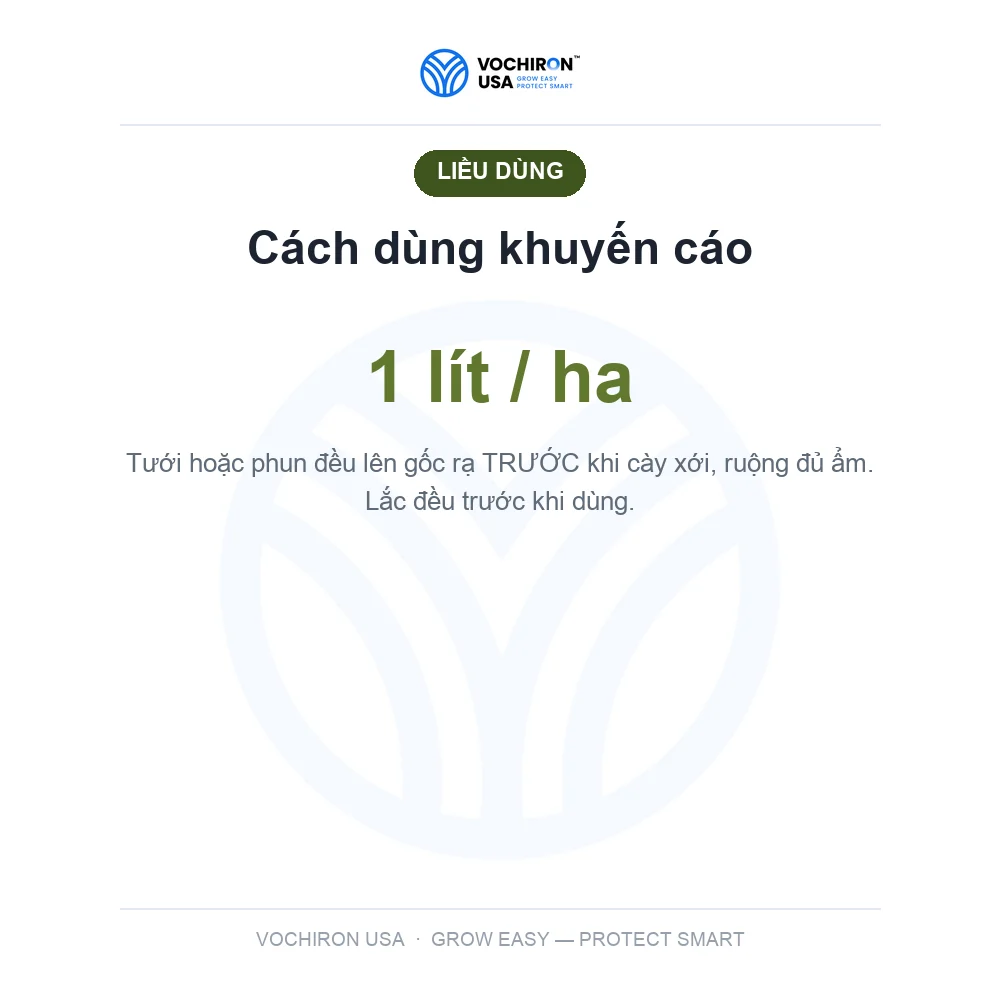
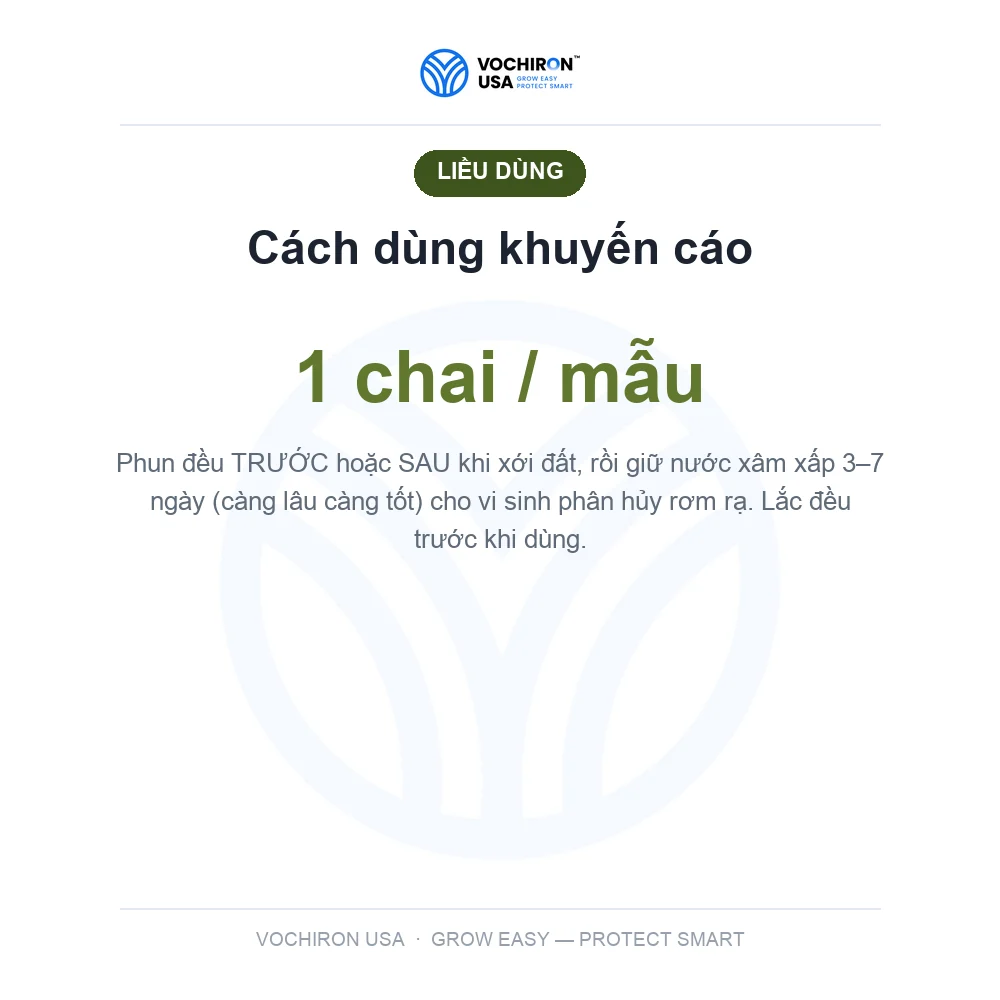
VCR-23: giá 560.000đ/chai (1 chai/mẫu) + cách dùng phun trước/sau xới, ngâm nước xâm xấp 3–7 ngày

Changed region(s): [[0.124, 0.434, 0.868, 0.558], [0.279, 0.341, 0.713, 0.403]]

diff --git a/index.html b/index.html
@@ -663,7 +663,7 @@ gtag('js',new Date());gtag('config','G-TL0S0RERYY');</script>
     <span class="nav-drop mega-drop">
       <button class="nav-top"><span data-i18n="nav_products">🌾 Sản phẩm</span> <span class="caret">▾</span></button>
       <span class="nav-menu mega-menu">
-        <div class="mm-col"><a class="mm-head" href="#lg">🌾 <span data-i18n="cat_lg">Lúa giống</span></a><a href="san-pham/lg-1-lua-giong-om18-tan-thinh.html">Lúa giống OM18 — Tấn Thịnh</a><a href="san-pham/lg-2-nep-ir4625.html">Nếp IR4625</a><a class="mm-all" href="#lg">Xem nhóm →</a></div><div class="mm-col"><a class="mm-head" href="#co">🌾 <span data-i18n="cat_co">Thuốc trừ cỏ</span></a><a href="san-pham/eha-1-eurofit-chau-au.html">EUROFIT CHÂU ÂU 1 lít</a><a href="san-pham/vcr-14-diet-mam-my-tieu-mam.html">Diệt Mầm MỸ 500ml Tiêu Mầm</a><a class="mm-all" href="#co">Xem nhóm →</a></div><div class="mm-col"><a class="mm-head" href="#sau">🐛 <span data-i18n="cat_sau">Thuốc trừ sâu, rầy &amp; ốc</span></a><a href="san-pham/vcr-3-ichibio.html">ICHIBIO Sâu đục thân, cuốn lá, nhện gié, bọ trĩ, rầy nâu</a><a href="san-pham/eha-10-f21-xong-hoi-ban-moi-f18.html">F21 xông hơi sâu đục thân, rầy rệp bản mới F18</a><a href="san-pham/eha-13-diet-sach.html">DIỆT SẠCH sâu rầy rệp, xông hơi lưu dẫn</a><a href="san-pham/vcr-4-sieu-3-6.html">Siêu 3.6 siêu diệt ốc</a><a href="san-pham/vcr-20-padan-ledan-usa.html">PADAN LEDAN USA (cartap, imidac, sâu đục thân, cuốn lá) 100gr</a><a href="san-pham/vcr-18-soi-xam-100g-soi-do-ban-moi.html">SÓI XÁM 100g Sói đỏ bản mới (sâu đục thân, rầy nâu)</a><a class="mm-all" href="#sau">Xem nhóm →</a></div><div class="mm-col"><a class="mm-head" href="#benh">🍃 <span data-i18n="cat_benh">Thuốc trừ bệnh — nấm &amp; vi khuẩn</span></a><a href="san-pham/eha-15-katana-kiem-nhat-480cc.html">Katana kiếm nhật bản 480cc đạo ôn</a><a href="san-pham/vcr-12-bim-usa.html">BIM USA 100gr đạo ôn</a><a href="san-pham/eha-3-help-chau-au-heppy-top-400.html">Help Châu Âu Heppy top 400</a><a href="san-pham/eha-6-topvil-50sc-nano.html">TOPVIL 50SC ấn độ, công nghệ nano</a><a href="san-pham/eha-2-sieu-khuan-usa-240cc.html">SIÊU KHUẨN USA 240cc</a><a href="san-pham/vcr-13-than-y-pirastar.html">Thần Y Pirastar (diệt sạch đạo ôn, vàng lá chín sớm, hơn 100 loại nấm bệnh)</a><a href="san-pham/vcr-19-nativax-90g.html">NATIVAX 90gr</a><a href="san-pham/eha-7-til-super-240ml.html">Til super 240ml</a><a class="mm-all" href="#benh">Xem tất cả 19 →</a></div><div class="mm-col"><a class="mm-head" href="#dd">🌱 <span data-i18n="cat_dd">Dinh dưỡng &amp; Kích thích sinh trưởng</span></a><a href="san-pham/vcr-22-humic-thay-dap-sihu-new-do-1kg.html">HUMIC THAY THẾ DAP SIHU NEW ĐỎ CỨNG CÂY 1 KG</a><a href="san-pham/eha-12-bio-nuoc-organic-500ml.html">BIO Nước ORGANIC 500ml</a><a href="san-pham/eha-5-antracol-nuoc-1l.html">Antracol nước 1 lít (siêu cứng cây, xanh lá)</a><a href="san-pham/vcr-21-hydrophos-1l.html">Hydrophos 1 Lít</a><a href="san-pham/vcr-2-cung-cay-chong-sap-500ml.html">CỨNG CÂY CHỐNG SẬP 500ml</a><a href="san-pham/vcr-16-ginseng-nyro-0-01sl.html">GINSENG NYRO 0.01SL 200ml (King Brassinolide)</a><a href="san-pham/eha-4-sieu-ra-re-no-bui-cung-cay-xanh-la-1l.html">Siêu ra rể nở bụi cứng cây xanh lá 1 lít</a><a href="san-pham/vcr-5-bloom-power.html">BLOOM POWER kích trổ, mập đòng</a><a class="mm-all" href="#dd">Xem tất cả 12 →</a></div><div class="mm-col"><a class="mm-head" href="#pb">🧪 <span data-i18n="cat_pb">Phân bón</span></a><a href="san-pham/pb-1-phan-ure.html">Phân Ure</a><a href="san-pham/pb-2-phan-dap.html">Phân DAP</a><a href="san-pham/pb-3-phan-kali.html">Phân Kali</a><a href="san-pham/pb-4-phan-npk.html">Phân NPK</a><a class="mm-all" href="#pb">Xem nhóm →</a></div>
+        <div class="mm-col"><a class="mm-head" href="#lg">🌾 <span data-i18n="cat_lg">Lúa giống</span></a><a href="san-pham/lg-1-lua-giong-om18-tan-thinh.html">Lúa giống OM18 — Tấn Thịnh</a><a href="san-pham/lg-2-nep-ir4625.html">Nếp IR4625</a><a class="mm-all" href="#lg">Xem nhóm →</a></div><div class="mm-col"><a class="mm-head" href="#co">🌾 <span data-i18n="cat_co">Thuốc trừ cỏ</span></a><a href="san-pham/eha-1-eurofit-chau-au.html">EUROFIT CHÂU ÂU 1 lít</a><a href="san-pham/vcr-14-diet-mam-my-tieu-mam.html">Diệt Mầm MỸ 500ml Tiêu Mầm</a><a class="mm-all" href="#co">Xem nhóm →</a></div><div class="mm-col"><a class="mm-head" href="#sau">🐛 <span data-i18n="cat_sau">Thuốc trừ sâu, rầy &amp; ốc</span></a><a href="san-pham/vcr-3-ichibio.html">ICHIBIO Sâu đục thân, cuốn lá, nhện gié, bọ trĩ, rầy nâu</a><a href="san-pham/eha-10-f21-xong-hoi-ban-moi-f18.html">F21 xông hơi sâu đục thân, rầy rệp bản mới F18</a><a href="san-pham/eha-13-diet-sach.html">DIỆT SẠCH sâu rầy rệp, xông hơi lưu dẫn</a><a href="san-pham/vcr-4-sieu-3-6.html">Siêu 3.6 siêu diệt ốc</a><a href="san-pham/vcr-20-padan-ledan-usa.html">PADAN LEDAN USA (cartap, imidac, sâu đục thân, cuốn lá) 100gr</a><a href="san-pham/vcr-18-soi-xam-100g-soi-do-ban-moi.html">SÓI XÁM 100g Sói đỏ bản mới (sâu đục thân, rầy nâu)</a><a class="mm-all" href="#sau">Xem nhóm →</a></div><div class="mm-col"><a class="mm-head" href="#benh">🍃 <span data-i18n="cat_benh">Thuốc trừ bệnh — nấm &amp; vi khuẩn</span></a><a href="san-pham/eha-15-katana-kiem-nhat-480cc.html">Katana kiếm nhật bản 480cc đạo ôn</a><a href="san-pham/vcr-12-bim-usa.html">BIM USA 100gr đạo ôn</a><a href="san-pham/eha-3-help-chau-au-heppy-top-400.html">Help Châu Âu Heppy top 400</a><a href="san-pham/eha-6-topvil-50sc-nano.html">TOPVIL 50SC ấn độ, công nghệ nano</a><a href="san-pham/eha-2-sieu-khuan-usa-240cc.html">SIÊU KHUẨN USA 240cc</a><a href="san-pham/vcr-13-than-y-pirastar.html">Thần Y Pirastar (diệt sạch đạo ôn, vàng lá chín sớm, hơn 100 loại nấm bệnh)</a><a href="san-pham/vcr-19-nativax-90g.html">NATIVAX 90gr</a><a href="san-pham/eha-7-til-super-240ml.html">Til super 240ml</a><a class="mm-all" href="#benh">Xem tất cả 19 →</a></div><div class="mm-col"><a class="mm-head" href="#dd">🌱 <span data-i18n="cat_dd">Dinh dưỡng &amp; Kích thích sinh trưởng</span></a><a href="san-pham/vcr-22-humic-thay-dap-sihu-new-do-1kg.html">HUMIC THAY THẾ DAP SIHU NEW ĐỎ CỨNG CÂY 1 KG</a><a href="san-pham/eha-12-bio-nuoc-organic-500ml.html">BIO Nước ORGANIC 500ml</a><a href="san-pham/vcr-23-10-ty-vi-sinh-phan-huy-rom-ra-cai-tao-dat.html">10 Tỷ Vi Sinh — phân hủy rơm rạ, cải tạo đất</a><a href="san-pham/eha-5-antracol-nuoc-1l.html">Antracol nước 1 lít (siêu cứng cây, xanh lá)</a><a href="san-pham/vcr-21-hydrophos-1l.html">Hydrophos 1 Lít</a><a href="san-pham/vcr-2-cung-cay-chong-sap-500ml.html">CỨNG CÂY CHỐNG SẬP 500ml</a><a href="san-pham/vcr-16-ginseng-nyro-0-01sl.html">GINSENG NYRO 0.01SL 200ml (King Brassinolide)</a><a href="san-pham/eha-4-sieu-ra-re-no-bui-cung-cay-xanh-la-1l.html">Siêu ra rể nở bụi cứng cây xanh lá 1 lít</a><a class="mm-all" href="#dd">Xem tất cả 12 →</a></div><div class="mm-col"><a class="mm-head" href="#pb">🧪 <span data-i18n="cat_pb">Phân bón</span></a><a href="san-pham/pb-1-phan-ure.html">Phân Ure</a><a href="san-pham/pb-2-phan-dap.html">Phân DAP</a><a href="san-pham/pb-3-phan-kali.html">Phân Kali</a><a href="san-pham/pb-4-phan-npk.html">Phân NPK</a><a class="mm-all" href="#pb">Xem nhóm →</a></div>
       </span>
     </span>
     <span class="nav-drop filter-drop">
@@ -1506,6 +1506,22 @@ gtag('js',new Date());gtag('config','G-TL0S0RERYY');</script>
           <button class="add-btn" data-code="EHA-12" data-name="BIO Nước ORGANIC 500ml" data-price="120000" data-step="1">＋ Thêm vào đơn</button>
         </div>
       </article>
+      <article class="card" id="card-VCR-23" data-target="phân hủy rơm rạ – gốc rạ – lúa cỏ sót; hữu cơ hóa, phá chai cứng đất; hạ phèn, kích ra rễ cực mạnh dinh dưỡng · vi sinh cải tạo đất 10 tỷ vi sinh — phân hủy rơm rạ, cải tạo đất">
+        
+        <div class="thumb"><img class="mainimg" loading="lazy" src="assets/mk-VCR-23.webp" alt="10 Tỷ Vi Sinh — phân hủy rơm rạ, cải tạo đất"></div>
+        
+        <div class="body">
+          <div class="meta"><span class="badge b-vcr">VOCHIRON</span><span class="tier t-ch">Tiêu chuẩn</span></div>
+          <h3>10 Tỷ Vi Sinh — phân hủy rơm rạ, cải tạo đất</h3>
+          <div class="pack">Chai 1 lít</div>
+          <div class="chips"><span class="chip-label" data-i18n="lbl_ai">Hoạt chất</span><span class="chip">Bacillus spp 1×10⁸</span><span class="chip">Trichoderma spp 1×10⁸ CFU/ml · Hữu cơ 20% · N 3% · P₂O₅ 2% · K₂O 2%</span></div>
+          <div class="field"><b data-i18n="lbl_uses">Công dụng:</b> Phân hủy rơm rạ – gốc rạ – lúa cỏ sót; hữu cơ hóa, phá chai cứng đất; hạ phèn, kích ra rễ cực mạnh</div>
+          <div class="desc">Hai chủng vi sinh Bacillus spp. + Trichoderma spp. (mỗi loại 1×10⁸ CFU/ml) tiết enzyme cellulase – ligninase phân giải nhanh rơm rạ, gốc rạ, rễ khô và hạt lúa sót nằm sâu trong đất thành mùn hữu cơ; đồng thời ức chế nấm bệnh tồn dư, hạn chế ngộ độc hữu cơ – vàng lá nghẹt rễ đầu vụ. Axit hữu cơ sinh ra phá vỡ kết cấu đất chai cứng, giải phóng phèn, tăng CEC cho đất tơi xốp, chuyển phân hóa học về dạng dễ tiêu và kích thích bộ rễ ăn sâu, cây khỏe ngay từ đầu vụ.</div>
+          <div class="price"><small data-i18n="lbl_price">Giá bán lẻ tham khảo</small><strong>560.000đ</strong></div>
+          <a class="detail-link" href="san-pham/vcr-23-10-ty-vi-sinh-phan-huy-rom-ra-cai-tao-dat.html" data-i18n="lbl_detail">Xem chi tiết sản phẩm →</a>
+          <button class="add-btn" data-code="VCR-23" data-name="10 Tỷ Vi Sinh — phân hủy rơm rạ, cải tạo đất" data-price="560000" data-step="1">＋ Thêm vào đơn</button>
+        </div>
+      </article>
       <article class="card" id="card-EHA-5" data-target="cứng cây, nở bụi, mập đòng, xanh lá dinh dưỡng · cứng cây antracol nước 1 lít (siêu cứng cây, xanh lá)">
         
         <div class="thumb"><img class="mainimg" loading="lazy" src="assets/mk-EHA-5.webp" alt="Antracol nước 1 lít (siêu cứng cây, xanh lá)"></div>
@@ -1648,22 +1664,6 @@ gtag('js',new Date());gtag('config','G-TL0S0RERYY');</script>
           <div class="price"><small data-i18n="lbl_price">Giá bán lẻ tham khảo</small><strong>10.000đ</strong></div>
           <a class="detail-link" href="san-pham/vcr-9-super-biocat-usa.html" data-i18n="lbl_detail">Xem chi tiết sản phẩm →</a>
           <button class="add-btn" data-code="VCR-9" data-name="SUPER BIOCAT (comcat, supercat usa)" data-price="10000" data-step="1">＋ Thêm vào đơn</button>
-        </div>
-      </article>
-      <article class="card" id="card-VCR-23" data-target="phân hủy rơm rạ – gốc rạ – lúa cỏ sót; hữu cơ hóa, phá chai cứng đất; hạ phèn, kích ra rễ cực mạnh dinh dưỡng · vi sinh cải tạo đất 10 tỷ vi sinh — phân hủy rơm rạ, cải tạo đất">
-        
-        <div class="thumb"><img class="mainimg" loading="lazy" src="assets/mk-VCR-23.webp" alt="10 Tỷ Vi Sinh — phân hủy rơm rạ, cải tạo đất"></div>
-        
-        <div class="body">
-          <div class="meta"><span class="badge b-vcr">VOCHIRON</span><span class="tier t-ch">Tiêu chuẩn</span></div>
-          <h3>10 Tỷ Vi Sinh — phân hủy rơm rạ, cải tạo đất</h3>
-          <div class="pack">Chai 1 lít</div>
-          <div class="chips"><span class="chip-label" data-i18n="lbl_ai">Hoạt chất</span><span class="chip">Bacillus spp 1×10⁸</span><span class="chip">Trichoderma spp 1×10⁸ CFU/ml · Hữu cơ 20% · N 3% · P₂O₅ 2% · K₂O 2%</span></div>
-          <div class="field"><b data-i18n="lbl_uses">Công dụng:</b> Phân hủy rơm rạ – gốc rạ – lúa cỏ sót; hữu cơ hóa, phá chai cứng đất; hạ phèn, kích ra rễ cực mạnh</div>
-          <div class="desc">Hai chủng vi sinh Bacillus spp. + Trichoderma spp. (mỗi loại 1×10⁸ CFU/ml) tiết enzyme cellulase – ligninase phân giải nhanh rơm rạ, gốc rạ, rễ khô và hạt lúa sót nằm sâu trong đất thành mùn hữu cơ; đồng thời ức chế nấm bệnh tồn dư, hạn chế ngộ độc hữu cơ – vàng lá nghẹt rễ đầu vụ. Axit hữu cơ sinh ra phá vỡ kết cấu đất chai cứng, giải phóng phèn, tăng CEC cho đất tơi xốp, chuyển phân hóa học về dạng dễ tiêu và kích thích bộ rễ ăn sâu, cây khỏe ngay từ đầu vụ.</div>
-          <div class="price"><small data-i18n="lbl_price">Giá bán</small><strong style="font-size:16px">Liên hệ báo giá</strong></div>
-          <a class="detail-link" href="san-pham/vcr-23-10-ty-vi-sinh-phan-huy-rom-ra-cai-tao-dat.html" data-i18n="lbl_detail">Xem chi tiết sản phẩm →</a>
-          <a class="add-btn" href="https://zalo.me/84933246086" target="_blank" rel="noopener">📞 Gọi báo giá</a>
         </div>
       </article>
       </div>

diff --git a/san-pham/vcr-23-10-ty-vi-sinh-phan-huy-rom-ra-cai-tao-dat.html b/san-pham/vcr-23-10-ty-vi-sinh-phan-huy-rom-ra-cai-tao-dat.html
@@ -1,13 +1,13 @@
 <!doctype html><html lang="vi"><head><meta charset="utf-8">
 <meta name="viewport" content="width=device-width,initial-scale=1">
 <title>10 Tỷ Vi Sinh — phân hủy rơm rạ, cải tạo đất — Bacillus spp 1×10⁸ + Trichoderma spp 1×10⁸ CFU/ml · Hữu cơ 20% · N 3% · P₂O₅ 2% · K₂O 2% | VOCHIRON USA</title>
-<meta name="description" content="10 Tỷ Vi Sinh — phân hủy rơm rạ, cải tạo đất: Phân hủy rơm rạ – gốc rạ – lúa cỏ sót; hữu cơ hóa, phá chai cứng đất; hạ phèn, kích ra rễ cực mạnh. Giá Liên hệ báo giá. Hoạt chất Bacillus spp 1×10⁸ + Trichoderma spp 1×10⁸ CFU/ml · Hữu cơ 20% · N 3% · P₂O₅ 2% · K₂O 2%. Đặt hàng Zalo 0933 246 086.">
+<meta name="description" content="10 Tỷ Vi Sinh — phân hủy rơm rạ, cải tạo đất: Phân hủy rơm rạ – gốc rạ – lúa cỏ sót; hữu cơ hóa, phá chai cứng đất; hạ phèn, kích ra rễ cực mạnh. Giá 560.000đ. Hoạt chất Bacillus spp 1×10⁸ + Trichoderma spp 1×10⁸ CFU/ml · Hữu cơ 20% · N 3% · P₂O₅ 2% · K₂O 2%. Đặt hàng Zalo 0933 246 086.">
 <meta property="og:title" content="10 Tỷ Vi Sinh — phân hủy rơm rạ, cải tạo đất — VOCHIRON USA">
 <meta property="og:description" content="Phân hủy rơm rạ – gốc rạ – lúa cỏ sót; hữu cơ hóa, phá chai cứng đất; hạ phèn, kích ra rễ cực mạnh">
 <meta property="og:image" content="https://vochironusa.com/assets/mk-VCR-23.webp">
 <meta property="og:type" content="product">
 <link rel="canonical" href="https://vochironusa.com/san-pham/vcr-23-10-ty-vi-sinh-phan-huy-rom-ra-cai-tao-dat.html">
-<script type="application/ld+json">{"@context": "https://schema.org", "@type": "Product", "name": "10 Tỷ Vi Sinh — phân hủy rơm rạ, cải tạo đất", "image": "https://vochironusa.com/assets/cs-VCR-23-1.webp", "description": "Phân hủy rơm rạ – gốc rạ – lúa cỏ sót; hữu cơ hóa, phá chai cứng đất; hạ phèn, kích ra rễ cực mạnh", "category": "Dinh dưỡng & sinh trưởng", "brand": {"@type": "Brand", "name": "VOCHIRON"}, "url": "https://vochironusa.com/san-pham/vcr-23-10-ty-vi-sinh-phan-huy-rom-ra-cai-tao-dat.html"}</script>
+<script type="application/ld+json">{"@context": "https://schema.org", "@type": "Product", "name": "10 Tỷ Vi Sinh — phân hủy rơm rạ, cải tạo đất", "image": "https://vochironusa.com/assets/cs-VCR-23-1.webp", "description": "Phân hủy rơm rạ – gốc rạ – lúa cỏ sót; hữu cơ hóa, phá chai cứng đất; hạ phèn, kích ra rễ cực mạnh", "category": "Dinh dưỡng & sinh trưởng", "brand": {"@type": "Brand", "name": "VOCHIRON"}, "url": "https://vochironusa.com/san-pham/vcr-23-10-ty-vi-sinh-phan-huy-rom-ra-cai-tao-dat.html", "offers": {"@type": "Offer", "priceCurrency": "VND", "price": "560000", "availability": "https://schema.org/InStock", "url": "https://vochironusa.com/san-pham/vcr-23-10-ty-vi-sinh-phan-huy-rom-ra-cai-tao-dat.html", "seller": {"@type": "Organization", "name": "CÔNG TY TNHH VOCHIRON USA"}}}</script>
 <link rel="icon" href="/favicon.ico" sizes="any"><link rel="icon" type="image/png" sizes="32x32" href="/favicon-32x32.png"><link rel="apple-touch-icon" href="/apple-touch-icon.png"><meta name="theme-color" content="#1372ea">
 <link rel="manifest" href="/manifest.webmanifest"><meta name="apple-mobile-web-app-capable" content="yes"><meta name="mobile-web-app-capable" content="yes"><meta name="apple-mobile-web-app-title" content="VOCHIRON">
 <script async src="https://www.googletagmanager.com/gtag/js?id=G-TL0S0RERYY"></script><script>window.dataLayer=window.dataLayer||[];function gtag(){dataLayer.push(arguments);}gtag('js',new Date());gtag('config','G-TL0S0RERYY');</script>
@@ -107,7 +107,7 @@ footer b{color:#9ec3f5}
     <div class="pr-meta"><span class="badge b-vcr">VOCHIRON</span><span class="tierchip">Tiêu chuẩn</span></div>
     <h1>10 Tỷ Vi Sinh — phân hủy rơm rạ, cải tạo đất</h1>
     <p class="pack">Chai 1 lít</p>
-    <div class="pr-price"><small>Giá bán lẻ tham khảo</small><b style="font-size:20px">Liên hệ báo giá</b></div>
+    <div class="pr-price"><small>Giá bán lẻ tham khảo</small><b style="">560.000đ</b></div>
     <div><b style="font-size:13px;color:var(--muted)">HOẠT CHẤT</b><div class="chips"><span class="chip">Bacillus spp 1×10⁸</span><span class="chip">Trichoderma spp 1×10⁸ CFU/ml · Hữu cơ 20% · N 3% · P₂O₅ 2% · K₂O 2%</span></div></div>
     <div class="cta-row">
       <a class="btn btn-buy" href="/#order">🛒 Đặt hàng — cửa hàng gọi lại</a>
@@ -118,7 +118,7 @@ footer b{color:#9ec3f5}
 
 <div class="sec"><h2>🎯 Công dụng</h2><p>Phân hủy rơm rạ – gốc rạ – lúa cỏ sót; hữu cơ hóa, phá chai cứng đất; hạ phèn, kích ra rễ cực mạnh</p></div>
 <div class="sec"><h2>⚙ Cơ chế tác động</h2><p>Hai chủng vi sinh Bacillus spp. + Trichoderma spp. (mỗi loại 1×10⁸ CFU/ml) tiết enzyme cellulase – ligninase phân giải nhanh rơm rạ, gốc rạ, rễ khô và hạt lúa sót nằm sâu trong đất thành mùn hữu cơ; đồng thời ức chế nấm bệnh tồn dư, hạn chế ngộ độc hữu cơ – vàng lá nghẹt rễ đầu vụ. Axit hữu cơ sinh ra phá vỡ kết cấu đất chai cứng, giải phóng phèn, tăng CEC cho đất tơi xốp, chuyển phân hóa học về dạng dễ tiêu và kích thích bộ rễ ăn sâu, cây khỏe ngay từ đầu vụ.</p></div>
-<div class="sec"><h2>💧 Liều dùng &amp; cách pha</h2><p>1 lít/ha — tưới/phun trước khi cày xới đầu vụ</p><p style="color:var(--muted);font-size:13px">* Liều tham khảo cho bình 25L / công 1000m². Pha đúng nước, phun đều ướt tán. Đọc kỹ nhãn trước khi dùng.</p></div>
+<div class="sec"><h2>💧 Liều dùng &amp; cách pha</h2><p>1 chai/mẫu — phun trước hoặc sau khi xới đất; giữ nước xâm xấp 3–7 ngày (càng lâu càng tốt)</p><p style="color:var(--muted);font-size:13px">* Liều tham khảo cho bình 25L / công 1000m². Pha đúng nước, phun đều ướt tán. Đọc kỹ nhãn trước khi dùng.</p></div>
 <div class="sec"><h2>🌾 Giai đoạn sử dụng trên cây lúa</h2><div class="stg-badges"><span class="sb" style="background:#9AA36B">G0 · Làm đất – Sạ</span></div><p style="margin-top:8px"><a href="/#phacdo">Xem bản đồ giải pháp đầy đủ 6 giai đoạn G0 → G5 →</a></p></div>
 <div class="sec"><h2>⚠ Lưu ý khi dùng</h2>
   <p class="note">Luân phiên nhóm hoạt chất để tránh kháng thuốc. Phun đúng liều, đúng thời điểm, đủ nước. Tuân thủ thời gian cách ly trước thu hoạch. Mang đồ bảo hộ khi phun. Sản phẩm nằm trong Danh mục thuốc BVTV được phép sử dụng tại Việt Nam — <a href="https://www.ppd.gov.vn/" target="_blank" rel="noopener">tra cứu chính thức</a>.</p></div>

diff --git a/san-pham/eha-12-bio-nuoc-organic-500ml.html b/san-pham/eha-12-bio-nuoc-organic-500ml.html
@@ -132,7 +132,7 @@ footer b{color:#9ec3f5}
   </div>
 </div>
 
-<div class="sec"><h2>🧺 Sản phẩm cùng nhóm</h2><div class="rel"><a class="rc" href="/san-pham/vcr-22-humic-thay-dap-sihu-new-do-1kg.html"><img loading="lazy" src="/assets/mk-VCR-22.webp" alt="HUMIC THAY THẾ DAP SIHU NEW ĐỎ CỨNG CÂY 1 KG"><b>HUMIC THAY THẾ DAP SIHU NEW ĐỎ CỨNG CÂY 1 KG</b><span>125.000đ</span></a><a class="rc" href="/san-pham/vcr-23-10-ty-vi-sinh-phan-huy-rom-ra-cai-tao-dat.html"><img loading="lazy" src="/assets/mk-VCR-23.webp" alt="10 Tỷ Vi Sinh — phân hủy rơm rạ, cải tạo đất"><b>10 Tỷ Vi Sinh — phân hủy rơm rạ, cải tạo đất</b><span>Liên hệ</span></a><a class="rc" href="/san-pham/eha-5-antracol-nuoc-1l.html"><img loading="lazy" src="/assets/mk-EHA-5.webp" alt="Antracol nước 1 lít (siêu cứng cây, xanh lá)"><b>Antracol nước 1 lít (siêu cứng cây, xanh lá)</b><span>220.000đ</span></a><a class="rc" href="/san-pham/vcr-5-bloom-power.html"><img loading="lazy" src="/assets/mk-VCR-5.webp" alt="BLOOM POWER kích trổ, mập đòng"><b>BLOOM POWER kích trổ, mập đòng</b><span>105.000đ</span></a></div></div>
+<div class="sec"><h2>🧺 Sản phẩm cùng nhóm</h2><div class="rel"><a class="rc" href="/san-pham/vcr-22-humic-thay-dap-sihu-new-do-1kg.html"><img loading="lazy" src="/assets/mk-VCR-22.webp" alt="HUMIC THAY THẾ DAP SIHU NEW ĐỎ CỨNG CÂY 1 KG"><b>HUMIC THAY THẾ DAP SIHU NEW ĐỎ CỨNG CÂY 1 KG</b><span>125.000đ</span></a><a class="rc" href="/san-pham/vcr-23-10-ty-vi-sinh-phan-huy-rom-ra-cai-tao-dat.html"><img loading="lazy" src="/assets/mk-VCR-23.webp" alt="10 Tỷ Vi Sinh — phân hủy rơm rạ, cải tạo đất"><b>10 Tỷ Vi Sinh — phân hủy rơm rạ, cải tạo đất</b><span>560.000đ</span></a><a class="rc" href="/san-pham/eha-5-antracol-nuoc-1l.html"><img loading="lazy" src="/assets/mk-EHA-5.webp" alt="Antracol nước 1 lít (siêu cứng cây, xanh lá)"><b>Antracol nước 1 lít (siêu cứng cây, xanh lá)</b><span>220.000đ</span></a><a class="rc" href="/san-pham/vcr-5-bloom-power.html"><img loading="lazy" src="/assets/mk-VCR-5.webp" alt="BLOOM POWER kích trổ, mập đòng"><b>BLOOM POWER kích trổ, mập đòng</b><span>105.000đ</span></a></div></div>
 </div>
 
 <footer><div class="wrap">

diff --git a/san-pham/eha-4-sieu-ra-re-no-bui-cung-cay-xanh-la-1l.html b/san-pham/eha-4-sieu-ra-re-no-bui-cung-cay-xanh-la-1l.html
@@ -132,7 +132,7 @@ footer b{color:#9ec3f5}
   </div>
 </div>
 
-<div class="sec"><h2>🧺 Sản phẩm cùng nhóm</h2><div class="rel"><a class="rc" href="/san-pham/vcr-22-humic-thay-dap-sihu-new-do-1kg.html"><img loading="lazy" src="/assets/mk-VCR-22.webp" alt="HUMIC THAY THẾ DAP SIHU NEW ĐỎ CỨNG CÂY 1 KG"><b>HUMIC THAY THẾ DAP SIHU NEW ĐỎ CỨNG CÂY 1 KG</b><span>125.000đ</span></a><a class="rc" href="/san-pham/eha-12-bio-nuoc-organic-500ml.html"><img loading="lazy" src="/assets/mk-EHA-12.webp" alt="BIO Nước ORGANIC 500ml"><b>BIO Nước ORGANIC 500ml</b><span>120.000đ</span></a><a class="rc" href="/san-pham/vcr-23-10-ty-vi-sinh-phan-huy-rom-ra-cai-tao-dat.html"><img loading="lazy" src="/assets/mk-VCR-23.webp" alt="10 Tỷ Vi Sinh — phân hủy rơm rạ, cải tạo đất"><b>10 Tỷ Vi Sinh — phân hủy rơm rạ, cải tạo đất</b><span>Liên hệ</span></a><a class="rc" href="/san-pham/eha-5-antracol-nuoc-1l.html"><img loading="lazy" src="/assets/mk-EHA-5.webp" alt="Antracol nước 1 lít (siêu cứng cây, xanh lá)"><b>Antracol nước 1 lít (siêu cứng cây, xanh lá)</b><span>220.000đ</span></a></div></div>
+<div class="sec"><h2>🧺 Sản phẩm cùng nhóm</h2><div class="rel"><a class="rc" href="/san-pham/vcr-22-humic-thay-dap-sihu-new-do-1kg.html"><img loading="lazy" src="/assets/mk-VCR-22.webp" alt="HUMIC THAY THẾ DAP SIHU NEW ĐỎ CỨNG CÂY 1 KG"><b>HUMIC THAY THẾ DAP SIHU NEW ĐỎ CỨNG CÂY 1 KG</b><span>125.000đ</span></a><a class="rc" href="/san-pham/eha-12-bio-nuoc-organic-500ml.html"><img loading="lazy" src="/assets/mk-EHA-12.webp" alt="BIO Nước ORGANIC 500ml"><b>BIO Nước ORGANIC 500ml</b><span>120.000đ</span></a><a class="rc" href="/san-pham/vcr-23-10-ty-vi-sinh-phan-huy-rom-ra-cai-tao-dat.html"><img loading="lazy" src="/assets/mk-VCR-23.webp" alt="10 Tỷ Vi Sinh — phân hủy rơm rạ, cải tạo đất"><b>10 Tỷ Vi Sinh — phân hủy rơm rạ, cải tạo đất</b><span>560.000đ</span></a><a class="rc" href="/san-pham/eha-5-antracol-nuoc-1l.html"><img loading="lazy" src="/assets/mk-EHA-5.webp" alt="Antracol nước 1 lít (siêu cứng cây, xanh lá)"><b>Antracol nước 1 lít (siêu cứng cây, xanh lá)</b><span>220.000đ</span></a></div></div>
 </div>
 
 <footer><div class="wrap">

diff --git a/san-pham/vcr-1-bio-ra-re-ha-phen-no-bui-50g.html b/san-pham/vcr-1-bio-ra-re-ha-phen-no-bui-50g.html
@@ -132,7 +132,7 @@ footer b{color:#9ec3f5}
   </div>
 </div>
 
-<div class="sec"><h2>🧺 Sản phẩm cùng nhóm</h2><div class="rel"><a class="rc" href="/san-pham/vcr-22-humic-thay-dap-sihu-new-do-1kg.html"><img loading="lazy" src="/assets/mk-VCR-22.webp" alt="HUMIC THAY THẾ DAP SIHU NEW ĐỎ CỨNG CÂY 1 KG"><b>HUMIC THAY THẾ DAP SIHU NEW ĐỎ CỨNG CÂY 1 KG</b><span>125.000đ</span></a><a class="rc" href="/san-pham/eha-12-bio-nuoc-organic-500ml.html"><img loading="lazy" src="/assets/mk-EHA-12.webp" alt="BIO Nước ORGANIC 500ml"><b>BIO Nước ORGANIC 500ml</b><span>120.000đ</span></a><a class="rc" href="/san-pham/vcr-23-10-ty-vi-sinh-phan-huy-rom-ra-cai-tao-dat.html"><img loading="lazy" src="/assets/mk-VCR-23.webp" alt="10 Tỷ Vi Sinh — phân hủy rơm rạ, cải tạo đất"><b>10 Tỷ Vi Sinh — phân hủy rơm rạ, cải tạo đất</b><span>Liên hệ</span></a><a class="rc" href="/san-pham/eha-5-antracol-nuoc-1l.html"><img loading="lazy" src="/assets/mk-EHA-5.webp" alt="Antracol nước 1 lít (siêu cứng cây, xanh lá)"><b>Antracol nước 1 lít (siêu cứng cây, xanh lá)</b><span>220.000đ</span></a></div></div>
+<div class="sec"><h2>🧺 Sản phẩm cùng nhóm</h2><div class="rel"><a class="rc" href="/san-pham/vcr-22-humic-thay-dap-sihu-new-do-1kg.html"><img loading="lazy" src="/assets/mk-VCR-22.webp" alt="HUMIC THAY THẾ DAP SIHU NEW ĐỎ CỨNG CÂY 1 KG"><b>HUMIC THAY THẾ DAP SIHU NEW ĐỎ CỨNG CÂY 1 KG</b><span>125.000đ</span></a><a class="rc" href="/san-pham/eha-12-bio-nuoc-organic-500ml.html"><img loading="lazy" src="/assets/mk-EHA-12.webp" alt="BIO Nước ORGANIC 500ml"><b>BIO Nước ORGANIC 500ml</b><span>120.000đ</span></a><a class="rc" href="/san-pham/vcr-23-10-ty-vi-sinh-phan-huy-rom-ra-cai-tao-dat.html"><img loading="lazy" src="/assets/mk-VCR-23.webp" alt="10 Tỷ Vi Sinh — phân hủy rơm rạ, cải tạo đất"><b>10 Tỷ Vi Sinh — phân hủy rơm rạ, cải tạo đất</b><span>560.000đ</span></a><a class="rc" href="/san-pham/eha-5-antracol-nuoc-1l.html"><img loading="lazy" src="/assets/mk-EHA-5.webp" alt="Antracol nước 1 lít (siêu cứng cây, xanh lá)"><b>Antracol nước 1 lít (siêu cứng cây, xanh lá)</b><span>220.000đ</span></a></div></div>
 </div>
 
 <footer><div class="wrap">

diff --git a/san-pham/vcr-16-ginseng-nyro-0-01sl.html b/san-pham/vcr-16-ginseng-nyro-0-01sl.html
@@ -132,7 +132,7 @@ footer b{color:#9ec3f5}
   </div>
 </div>
 
-<div class="sec"><h2>🧺 Sản phẩm cùng nhóm</h2><div class="rel"><a class="rc" href="/san-pham/vcr-22-humic-thay-dap-sihu-new-do-1kg.html"><img loading="lazy" src="/assets/mk-VCR-22.webp" alt="HUMIC THAY THẾ DAP SIHU NEW ĐỎ CỨNG CÂY 1 KG"><b>HUMIC THAY THẾ DAP SIHU NEW ĐỎ CỨNG CÂY 1 KG</b><span>125.000đ</span></a><a class="rc" href="/san-pham/eha-12-bio-nuoc-organic-500ml.html"><img loading="lazy" src="/assets/mk-EHA-12.webp" alt="BIO Nước ORGANIC 500ml"><b>BIO Nước ORGANIC 500ml</b><span>120.000đ</span></a><a class="rc" href="/san-pham/vcr-23-10-ty-vi-sinh-phan-huy-rom-ra-cai-tao-dat.html"><img loading="lazy" src="/assets/mk-VCR-23.webp" alt="10 Tỷ Vi Sinh — phân hủy rơm rạ, cải tạo đất"><b>10 Tỷ Vi Sinh — phân hủy rơm rạ, cải tạo đất</b><span>Liên hệ</span></a><a class="rc" href="/san-pham/eha-5-antracol-nuoc-1l.html"><img loading="lazy" src="/assets/mk-EHA-5.webp" alt="Antracol nước 1 lít (siêu cứng cây, xanh lá)"><b>Antracol nước 1 lít (siêu cứng cây, xanh lá)</b><span>220.000đ</span></a></div></div>
+<div class="sec"><h2>🧺 Sản phẩm cùng nhóm</h2><div class="rel"><a class="rc" href="/san-pham/vcr-22-humic-thay-dap-sihu-new-do-1kg.html"><img loading="lazy" src="/assets/mk-VCR-22.webp" alt="HUMIC THAY THẾ DAP SIHU NEW ĐỎ CỨNG CÂY 1 KG"><b>HUMIC THAY THẾ DAP SIHU NEW ĐỎ CỨNG CÂY 1 KG</b><span>125.000đ</span></a><a class="rc" href="/san-pham/eha-12-bio-nuoc-organic-500ml.html"><img loading="lazy" src="/assets/mk-EHA-12.webp" alt="BIO Nước ORGANIC 500ml"><b>BIO Nước ORGANIC 500ml</b><span>120.000đ</span></a><a class="rc" href="/san-pham/vcr-23-10-ty-vi-sinh-phan-huy-rom-ra-cai-tao-dat.html"><img loading="lazy" src="/assets/mk-VCR-23.webp" alt="10 Tỷ Vi Sinh — phân hủy rơm rạ, cải tạo đất"><b>10 Tỷ Vi Sinh — phân hủy rơm rạ, cải tạo đất</b><span>560.000đ</span></a><a class="rc" href="/san-pham/eha-5-antracol-nuoc-1l.html"><img loading="lazy" src="/assets/mk-EHA-5.webp" alt="Antracol nước 1 lít (siêu cứng cây, xanh lá)"><b>Antracol nước 1 lít (siêu cứng cây, xanh lá)</b><span>220.000đ</span></a></div></div>
 </div>
 
 <footer><div class="wrap">

diff --git a/san-pham/vcr-2-cung-cay-chong-sap-500ml.html b/san-pham/vcr-2-cung-cay-chong-sap-500ml.html
@@ -132,7 +132,7 @@ footer b{color:#9ec3f5}
   </div>
 </div>
 
-<div class="sec"><h2>🧺 Sản phẩm cùng nhóm</h2><div class="rel"><a class="rc" href="/san-pham/vcr-22-humic-thay-dap-sihu-new-do-1kg.html"><img loading="lazy" src="/assets/mk-VCR-22.webp" alt="HUMIC THAY THẾ DAP SIHU NEW ĐỎ CỨNG CÂY 1 KG"><b>HUMIC THAY THẾ DAP SIHU NEW ĐỎ CỨNG CÂY 1 KG</b><span>125.000đ</span></a><a class="rc" href="/san-pham/eha-12-bio-nuoc-organic-500ml.html"><img loading="lazy" src="/assets/mk-EHA-12.webp" alt="BIO Nước ORGANIC 500ml"><b>BIO Nước ORGANIC 500ml</b><span>120.000đ</span></a><a class="rc" href="/san-pham/vcr-23-10-ty-vi-sinh-phan-huy-rom-ra-cai-tao-dat.html"><img loading="lazy" src="/assets/mk-VCR-23.webp" alt="10 Tỷ Vi Sinh — phân hủy rơm rạ, cải tạo đất"><b>10 Tỷ Vi Sinh — phân hủy rơm rạ, cải tạo đất</b><span>Liên hệ</span></a><a class="rc" href="/san-pham/eha-5-antracol-nuoc-1l.html"><img loading="lazy" src="/assets/mk-EHA-5.webp" alt="Antracol nước 1 lít (siêu cứng cây, xanh lá)"><b>Antracol nước 1 lít (siêu cứng cây, xanh lá)</b><span>220.000đ</span></a></div></div>
+<div class="sec"><h2>🧺 Sản phẩm cùng nhóm</h2><div class="rel"><a class="rc" href="/san-pham/vcr-22-humic-thay-dap-sihu-new-do-1kg.html"><img loading="lazy" src="/assets/mk-VCR-22.webp" alt="HUMIC THAY THẾ DAP SIHU NEW ĐỎ CỨNG CÂY 1 KG"><b>HUMIC THAY THẾ DAP SIHU NEW ĐỎ CỨNG CÂY 1 KG</b><span>125.000đ</span></a><a class="rc" href="/san-pham/eha-12-bio-nuoc-organic-500ml.html"><img loading="lazy" src="/assets/mk-EHA-12.webp" alt="BIO Nước ORGANIC 500ml"><b>BIO Nước ORGANIC 500ml</b><span>120.000đ</span></a><a class="rc" href="/san-pham/vcr-23-10-ty-vi-sinh-phan-huy-rom-ra-cai-tao-dat.html"><img loading="lazy" src="/assets/mk-VCR-23.webp" alt="10 Tỷ Vi Sinh — phân hủy rơm rạ, cải tạo đất"><b>10 Tỷ Vi Sinh — phân hủy rơm rạ, cải tạo đất</b><span>560.000đ</span></a><a class="rc" href="/san-pham/eha-5-antracol-nuoc-1l.html"><img loading="lazy" src="/assets/mk-EHA-5.webp" alt="Antracol nước 1 lít (siêu cứng cây, xanh lá)"><b>Antracol nước 1 lít (siêu cứng cây, xanh lá)</b><span>220.000đ</span></a></div></div>
 </div>
 
 <footer><div class="wrap">

diff --git a/san-pham/vcr-21-hydrophos-1l.html b/san-pham/vcr-21-hydrophos-1l.html
@@ -132,7 +132,7 @@ footer b{color:#9ec3f5}
   </div>
 </div>
 
-<div class="sec"><h2>🧺 Sản phẩm cùng nhóm</h2><div class="rel"><a class="rc" href="/san-pham/vcr-22-humic-thay-dap-sihu-new-do-1kg.html"><img loading="lazy" src="/assets/mk-VCR-22.webp" alt="HUMIC THAY THẾ DAP SIHU NEW ĐỎ CỨNG CÂY 1 KG"><b>HUMIC THAY THẾ DAP SIHU NEW ĐỎ CỨNG CÂY 1 KG</b><span>125.000đ</span></a><a class="rc" href="/san-pham/eha-12-bio-nuoc-organic-500ml.html"><img loading="lazy" src="/assets/mk-EHA-12.webp" alt="BIO Nước ORGANIC 500ml"><b>BIO Nước ORGANIC 500ml</b><span>120.000đ</span></a><a class="rc" href="/san-pham/vcr-23-10-ty-vi-sinh-phan-huy-rom-ra-cai-tao-dat.html"><img loading="lazy" src="/assets/mk-VCR-23.webp" alt="10 Tỷ Vi Sinh — phân hủy rơm rạ, cải tạo đất"><b>10 Tỷ Vi Sinh — phân hủy rơm rạ, cải tạo đất</b><span>Liên hệ</span></a><a class="rc" href="/san-pham/eha-5-antracol-nuoc-1l.html"><img loading="lazy" src="/assets/mk-EHA-5.webp" alt="Antracol nước 1 lít (siêu cứng cây, xanh lá)"><b>Antracol nước 1 lít (siêu cứng cây, xanh lá)</b><span>220.000đ</span></a></div></div>
+<div class="sec"><h2>🧺 Sản phẩm cùng nhóm</h2><div class="rel"><a class="rc" href="/san-pham/vcr-22-humic-thay-dap-sihu-new-do-1kg.html"><img loading="lazy" src="/assets/mk-VCR-22.webp" alt="HUMIC THAY THẾ DAP SIHU NEW ĐỎ CỨNG CÂY 1 KG"><b>HUMIC THAY THẾ DAP SIHU NEW ĐỎ CỨNG CÂY 1 KG</b><span>125.000đ</span></a><a class="rc" href="/san-pham/eha-12-bio-nuoc-organic-500ml.html"><img loading="lazy" src="/assets/mk-EHA-12.webp" alt="BIO Nước ORGANIC 500ml"><b>BIO Nước ORGANIC 500ml</b><span>120.000đ</span></a><a class="rc" href="/san-pham/vcr-23-10-ty-vi-sinh-phan-huy-rom-ra-cai-tao-dat.html"><img loading="lazy" src="/assets/mk-VCR-23.webp" alt="10 Tỷ Vi Sinh — phân hủy rơm rạ, cải tạo đất"><b>10 Tỷ Vi Sinh — phân hủy rơm rạ, cải tạo đất</b><span>560.000đ</span></a><a class="rc" href="/san-pham/eha-5-antracol-nuoc-1l.html"><img loading="lazy" src="/assets/mk-EHA-5.webp" alt="Antracol nước 1 lít (siêu cứng cây, xanh lá)"><b>Antracol nước 1 lít (siêu cứng cây, xanh lá)</b><span>220.000đ</span></a></div></div>
 </div>
 
 <footer><div class="wrap">

diff --git a/san-pham/vcr-5-bloom-power.html b/san-pham/vcr-5-bloom-power.html
@@ -132,7 +132,7 @@ footer b{color:#9ec3f5}
   </div>
 </div>
 
-<div class="sec"><h2>🧺 Sản phẩm cùng nhóm</h2><div class="rel"><a class="rc" href="/san-pham/vcr-22-humic-thay-dap-sihu-new-do-1kg.html"><img loading="lazy" src="/assets/mk-VCR-22.webp" alt="HUMIC THAY THẾ DAP SIHU NEW ĐỎ CỨNG CÂY 1 KG"><b>HUMIC THAY THẾ DAP SIHU NEW ĐỎ CỨNG CÂY 1 KG</b><span>125.000đ</span></a><a class="rc" href="/san-pham/eha-12-bio-nuoc-organic-500ml.html"><img loading="lazy" src="/assets/mk-EHA-12.webp" alt="BIO Nước ORGANIC 500ml"><b>BIO Nước ORGANIC 500ml</b><span>120.000đ</span></a><a class="rc" href="/san-pham/vcr-23-10-ty-vi-sinh-phan-huy-rom-ra-cai-tao-dat.html"><img loading="lazy" src="/assets/mk-VCR-23.webp" alt="10 Tỷ Vi Sinh — phân hủy rơm rạ, cải tạo đất"><b>10 Tỷ Vi Sinh — phân hủy rơm rạ, cải tạo đất</b><span>Liên hệ</span></a><a class="rc" href="/san-pham/eha-5-antracol-nuoc-1l.html"><img loading="lazy" src="/assets/mk-EHA-5.webp" alt="Antracol nước 1 lít (siêu cứng cây, xanh lá)"><b>Antracol nước 1 lít (siêu cứng cây, xanh lá)</b><span>220.000đ</span></a></div></div>
+<div class="sec"><h2>🧺 Sản phẩm cùng nhóm</h2><div class="rel"><a class="rc" href="/san-pham/vcr-22-humic-thay-dap-sihu-new-do-1kg.html"><img loading="lazy" src="/assets/mk-VCR-22.webp" alt="HUMIC THAY THẾ DAP SIHU NEW ĐỎ CỨNG CÂY 1 KG"><b>HUMIC THAY THẾ DAP SIHU NEW ĐỎ CỨNG CÂY 1 KG</b><span>125.000đ</span></a><a class="rc" href="/san-pham/eha-12-bio-nuoc-organic-500ml.html"><img loading="lazy" src="/assets/mk-EHA-12.webp" alt="BIO Nước ORGANIC 500ml"><b>BIO Nước ORGANIC 500ml</b><span>120.000đ</span></a><a class="rc" href="/san-pham/vcr-23-10-ty-vi-sinh-phan-huy-rom-ra-cai-tao-dat.html"><img loading="lazy" src="/assets/mk-VCR-23.webp" alt="10 Tỷ Vi Sinh — phân hủy rơm rạ, cải tạo đất"><b>10 Tỷ Vi Sinh — phân hủy rơm rạ, cải tạo đất</b><span>560.000đ</span></a><a class="rc" href="/san-pham/eha-5-antracol-nuoc-1l.html"><img loading="lazy" src="/assets/mk-EHA-5.webp" alt="Antracol nước 1 lít (siêu cứng cây, xanh lá)"><b>Antracol nước 1 lít (siêu cứng cây, xanh lá)</b><span>220.000đ</span></a></div></div>
 </div>
 
 <footer><div class="wrap">

diff --git a/san-pham/vcr-6-comcat-nuoc-500cc.html b/san-pham/vcr-6-comcat-nuoc-500cc.html
@@ -132,7 +132,7 @@ footer b{color:#9ec3f5}
   </div>
 </div>
 
-<div class="sec"><h2>🧺 Sản phẩm cùng nhóm</h2><div class="rel"><a class="rc" href="/san-pham/vcr-22-humic-thay-dap-sihu-new-do-1kg.html"><img loading="lazy" src="/assets/mk-VCR-22.webp" alt="HUMIC THAY THẾ DAP SIHU NEW ĐỎ CỨNG CÂY 1 KG"><b>HUMIC THAY THẾ DAP SIHU NEW ĐỎ CỨNG CÂY 1 KG</b><span>125.000đ</span></a><a class="rc" href="/san-pham/eha-12-bio-nuoc-organic-500ml.html"><img loading="lazy" src="/assets/mk-EHA-12.webp" alt="BIO Nước ORGANIC 500ml"><b>BIO Nước ORGANIC 500ml</b><span>120.000đ</span></a><a class="rc" href="/san-pham/vcr-23-10-ty-vi-sinh-phan-huy-rom-ra-cai-tao-dat.html"><img loading="lazy" src="/assets/mk-VCR-23.webp" alt="10 Tỷ Vi Sinh — phân hủy rơm rạ, cải tạo đất"><b>10 Tỷ Vi Sinh — phân hủy rơm rạ, cải tạo đất</b><span>Liên hệ</span></a><a class="rc" href="/san-pham/eha-5-antracol-nuoc-1l.html"><img loading="lazy" src="/assets/mk-EHA-5.webp" alt="Antracol nước 1 lít (siêu cứng cây, xanh lá)"><b>Antracol nước 1 lít (siêu cứng cây, xanh lá)</b><span>220.000đ</span></a></div></div>
+<div class="sec"><h2>🧺 Sản phẩm cùng nhóm</h2><div class="rel"><a class="rc" href="/san-pham/vcr-22-humic-thay-dap-sihu-new-do-1kg.html"><img loading="lazy" src="/assets/mk-VCR-22.webp" alt="HUMIC THAY THẾ DAP SIHU NEW ĐỎ CỨNG CÂY 1 KG"><b>HUMIC THAY THẾ DAP SIHU NEW ĐỎ CỨNG CÂY 1 KG</b><span>125.000đ</span></a><a class="rc" href="/san-pham/eha-12-bio-nuoc-organic-500ml.html"><img loading="lazy" src="/assets/mk-EHA-12.webp" alt="BIO Nước ORGANIC 500ml"><b>BIO Nước ORGANIC 500ml</b><span>120.000đ</span></a><a class="rc" href="/san-pham/vcr-23-10-ty-vi-sinh-phan-huy-rom-ra-cai-tao-dat.html"><img loading="lazy" src="/assets/mk-VCR-23.webp" alt="10 Tỷ Vi Sinh — phân hủy rơm rạ, cải tạo đất"><b>10 Tỷ Vi Sinh — phân hủy rơm rạ, cải tạo đất</b><span>560.000đ</span></a><a class="rc" href="/san-pham/eha-5-antracol-nuoc-1l.html"><img loading="lazy" src="/assets/mk-EHA-5.webp" alt="Antracol nước 1 lít (siêu cứng cây, xanh lá)"><b>Antracol nước 1 lít (siêu cứng cây, xanh lá)</b><span>220.000đ</span></a></div></div>
 </div>
 
 <footer><div class="wrap">

diff --git a/san-pham/vcr-9-super-biocat-usa.html b/san-pham/vcr-9-super-biocat-usa.html
@@ -132,7 +132,7 @@ footer b{color:#9ec3f5}
   </div>
 </div>
 
-<div class="sec"><h2>🧺 Sản phẩm cùng nhóm</h2><div class="rel"><a class="rc" href="/san-pham/vcr-22-humic-thay-dap-sihu-new-do-1kg.html"><img loading="lazy" src="/assets/mk-VCR-22.webp" alt="HUMIC THAY THẾ DAP SIHU NEW ĐỎ CỨNG CÂY 1 KG"><b>HUMIC THAY THẾ DAP SIHU NEW ĐỎ CỨNG CÂY 1 KG</b><span>125.000đ</span></a><a class="rc" href="/san-pham/eha-12-bio-nuoc-organic-500ml.html"><img loading="lazy" src="/assets/mk-EHA-12.webp" alt="BIO Nước ORGANIC 500ml"><b>BIO Nước ORGANIC 500ml</b><span>120.000đ</span></a><a class="rc" href="/san-pham/vcr-23-10-ty-vi-sinh-phan-huy-rom-ra-cai-tao-dat.html"><img loading="lazy" src="/assets/mk-VCR-23.webp" alt="10 Tỷ Vi Sinh — phân hủy rơm rạ, cải tạo đất"><b>10 Tỷ Vi Sinh — phân hủy rơm rạ, cải tạo đất</b><span>Liên hệ</span></a><a class="rc" href="/san-pham/eha-5-antracol-nuoc-1l.html"><img loading="lazy" src="/assets/mk-EHA-5.webp" alt="Antracol nước 1 lít (siêu cứng cây, xanh lá)"><b>Antracol nước 1 lít (siêu cứng cây, xanh lá)</b><span>220.000đ</span></a></div></div>
+<div class="sec"><h2>🧺 Sản phẩm cùng nhóm</h2><div class="rel"><a class="rc" href="/san-pham/vcr-22-humic-thay-dap-sihu-new-do-1kg.html"><img loading="lazy" src="/assets/mk-VCR-22.webp" alt="HUMIC THAY THẾ DAP SIHU NEW ĐỎ CỨNG CÂY 1 KG"><b>HUMIC THAY THẾ DAP SIHU NEW ĐỎ CỨNG CÂY 1 KG</b><span>125.000đ</span></a><a class="rc" href="/san-pham/eha-12-bio-nuoc-organic-500ml.html"><img loading="lazy" src="/assets/mk-EHA-12.webp" alt="BIO Nước ORGANIC 500ml"><b>BIO Nước ORGANIC 500ml</b><span>120.000đ</span></a><a class="rc" href="/san-pham/vcr-23-10-ty-vi-sinh-phan-huy-rom-ra-cai-tao-dat.html"><img loading="lazy" src="/assets/mk-VCR-23.webp" alt="10 Tỷ Vi Sinh — phân hủy rơm rạ, cải tạo đất"><b>10 Tỷ Vi Sinh — phân hủy rơm rạ, cải tạo đất</b><span>560.000đ</span></a><a class="rc" href="/san-pham/eha-5-antracol-nuoc-1l.html"><img loading="lazy" src="/assets/mk-EHA-5.webp" alt="Antracol nước 1 lít (siêu cứng cây, xanh lá)"><b>Antracol nước 1 lít (siêu cứng cây, xanh lá)</b><span>220.000đ</span></a></div></div>
 </div>
 
 <footer><div class="wrap">

diff --git a/san-pham/eha-5-antracol-nuoc-1l.html b/san-pham/eha-5-antracol-nuoc-1l.html
@@ -132,7 +132,7 @@ footer b{color:#9ec3f5}
   </div>
 </div>
 
-<div class="sec"><h2>🧺 Sản phẩm cùng nhóm</h2><div class="rel"><a class="rc" href="/san-pham/vcr-22-humic-thay-dap-sihu-new-do-1kg.html"><img loading="lazy" src="/assets/mk-VCR-22.webp" alt="HUMIC THAY THẾ DAP SIHU NEW ĐỎ CỨNG CÂY 1 KG"><b>HUMIC THAY THẾ DAP SIHU NEW ĐỎ CỨNG CÂY 1 KG</b><span>125.000đ</span></a><a class="rc" href="/san-pham/eha-12-bio-nuoc-organic-500ml.html"><img loading="lazy" src="/assets/mk-EHA-12.webp" alt="BIO Nước ORGANIC 500ml"><b>BIO Nước ORGANIC 500ml</b><span>120.000đ</span></a><a class="rc" href="/san-pham/vcr-23-10-ty-vi-sinh-phan-huy-rom-ra-cai-tao-dat.html"><img loading="lazy" src="/assets/mk-VCR-23.webp" alt="10 Tỷ Vi Sinh — phân hủy rơm rạ, cải tạo đất"><b>10 Tỷ Vi Sinh — phân hủy rơm rạ, cải tạo đất</b><span>Liên hệ</span></a><a class="rc" href="/san-pham/vcr-5-bloom-power.html"><img loading="lazy" src="/assets/mk-VCR-5.webp" alt="BLOOM POWER kích trổ, mập đòng"><b>BLOOM POWER kích trổ, mập đòng</b><span>105.000đ</span></a></div></div>
+<div class="sec"><h2>🧺 Sản phẩm cùng nhóm</h2><div class="rel"><a class="rc" href="/san-pham/vcr-22-humic-thay-dap-sihu-new-do-1kg.html"><img loading="lazy" src="/assets/mk-VCR-22.webp" alt="HUMIC THAY THẾ DAP SIHU NEW ĐỎ CỨNG CÂY 1 KG"><b>HUMIC THAY THẾ DAP SIHU NEW ĐỎ CỨNG CÂY 1 KG</b><span>125.000đ</span></a><a class="rc" href="/san-pham/eha-12-bio-nuoc-organic-500ml.html"><img loading="lazy" src="/assets/mk-EHA-12.webp" alt="BIO Nước ORGANIC 500ml"><b>BIO Nước ORGANIC 500ml</b><span>120.000đ</span></a><a class="rc" href="/san-pham/vcr-23-10-ty-vi-sinh-phan-huy-rom-ra-cai-tao-dat.html"><img loading="lazy" src="/assets/mk-VCR-23.webp" alt="10 Tỷ Vi Sinh — phân hủy rơm rạ, cải tạo đất"><b>10 Tỷ Vi Sinh — phân hủy rơm rạ, cải tạo đất</b><span>560.000đ</span></a><a class="rc" href="/san-pham/vcr-5-bloom-power.html"><img loading="lazy" src="/assets/mk-VCR-5.webp" alt="BLOOM POWER kích trổ, mập đòng"><b>BLOOM POWER kích trổ, mập đòng</b><span>105.000đ</span></a></div></div>
 </div>
 
 <footer><div class="wrap">
